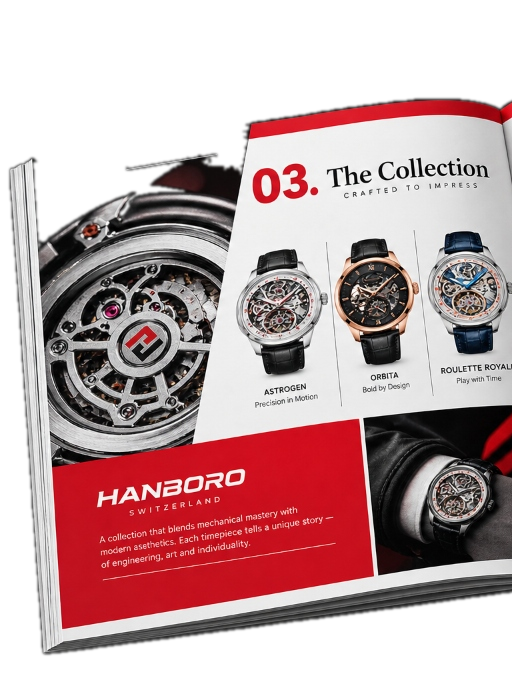
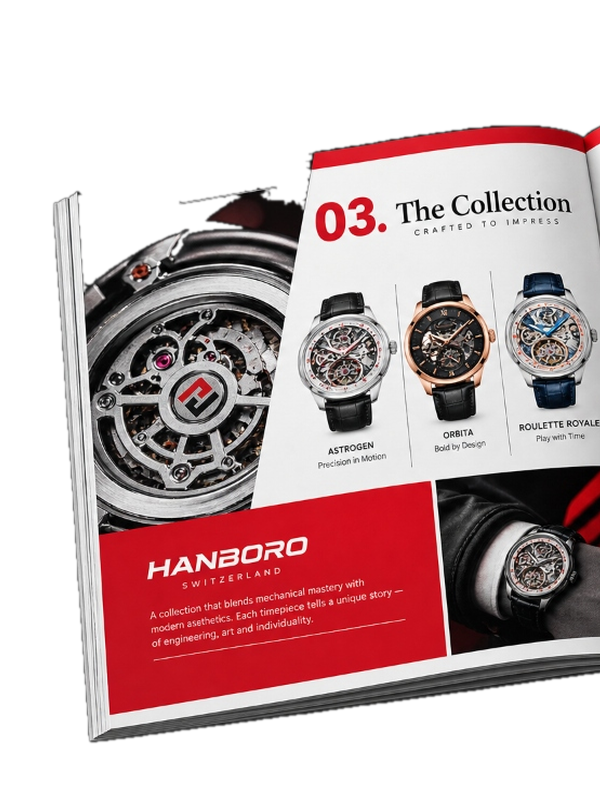
Standardize catalog book dimensions and aspect ratio uniformly across all spreads

diff --git a/src/styles.css b/src/styles.css
@@ -399,8 +399,8 @@ a { color: inherit; text-decoration: none; }
 .book-3d {
   position: relative;
   width: 100%;
-  max-width: 1024px;
-  aspect-ratio: 1024 / 682;
+  max-width: 1080px;
+  aspect-ratio: 1200 / 800;
   display: flex;
   perspective: 2600px;
   transform-style: preserve-3d;
